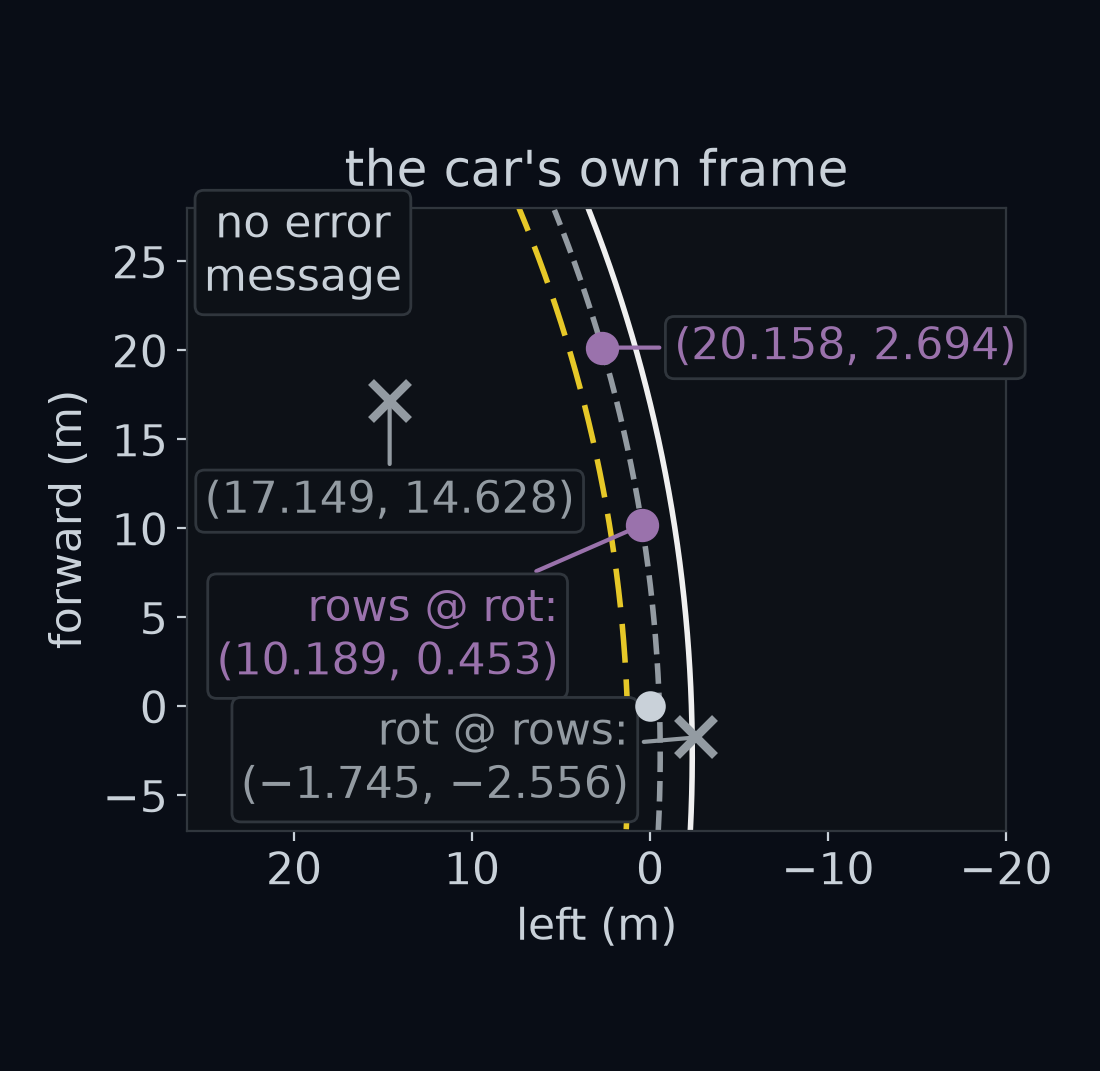
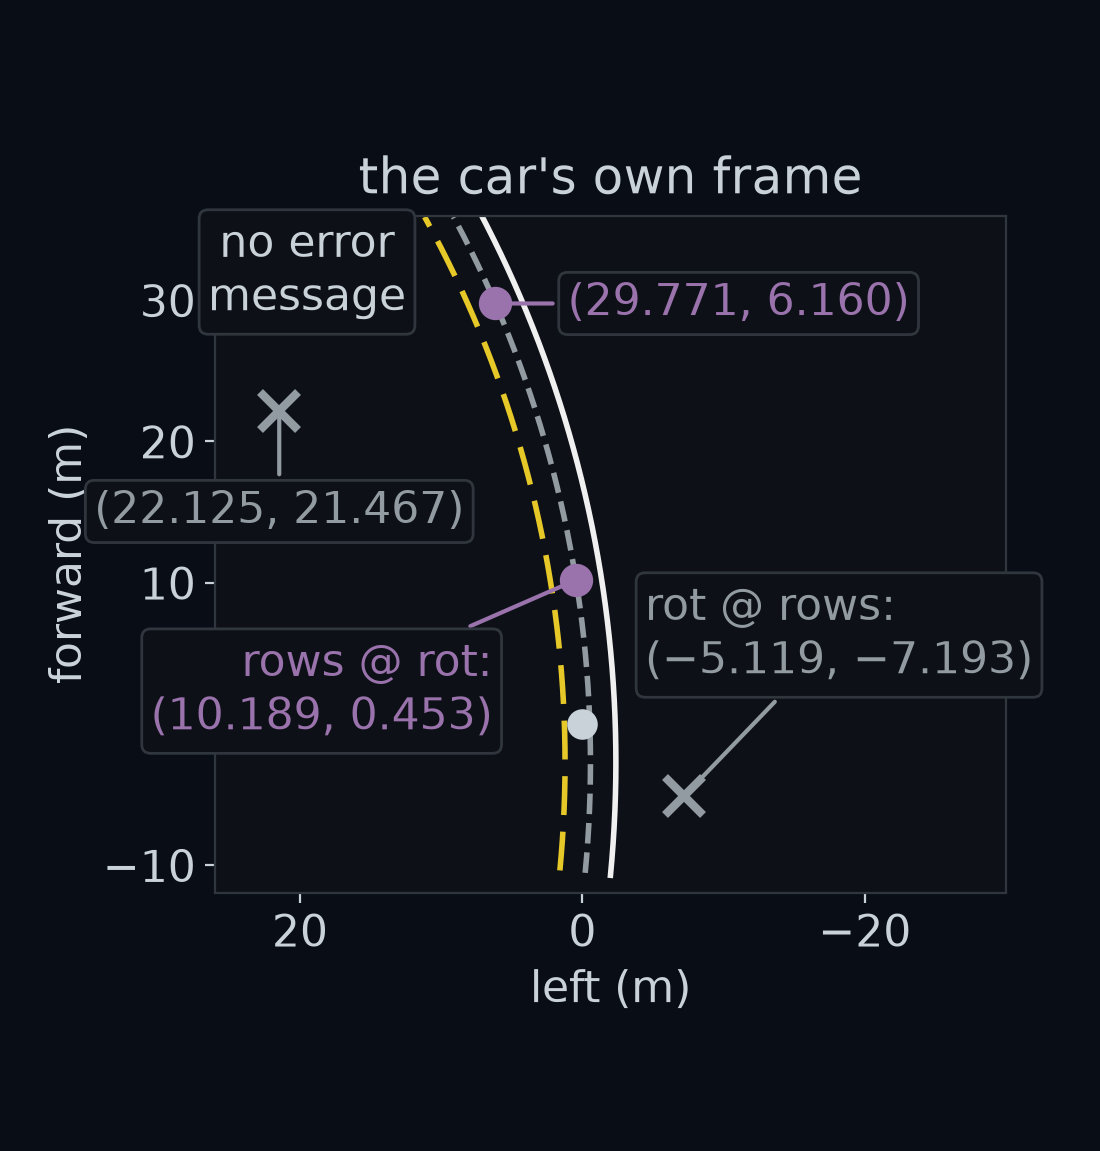
1.1.2: explicit tolerances, a fallback message that states only what it saw, shape_trap off the road
- every allclose in the grader and lab.py takes rtol=0 and the stated atol
- name_the_mistake: forward flipped, swapped position and a constant offset get their own names; anything else says how far off it is, no cause
- shape_trap uses the 10 m and 30 m lane-centre points, so both crosses are off the road; measure.py, caption and figure agree

diff --git a/zero2fsd/grade/units/u1_1_2.py b/zero2fsd/grade/units/u1_1_2.py
@@ -22,9 +22,7 @@ NAMED_YAWS = {  # yaw label -> (yaw, what a pass at that yaw proves)
     "-3pi/4": (-3 * math.pi / 4, "tells R from its transpose, and from no rotation"),
 }
 NAME_TOL = 1e-6  # how close `got` must be to a known wrong answer for the message to name that mistake
-GENERAL = ("a rotation mistake: check R(θ)ᵀ, θ in radians, and that you subtract t before rotating", "The rotation matrix")
-YAW_0 = ("wrong even at yaw 0, where R(0) must be the identity [[1, 0], [0, 1]]: check that rotation_matrix(0) gives it, that you subtract the car's position, and that you return (forward, left)",
-         "Two dot products make a frame change")
+SECTION = "Two dot products make a frame change"  # where the general message points: it names no cause
 
 
 def known_mistakes(pose, point):
@@ -41,16 +39,24 @@ def known_mistakes(pose, point):
         (p @ rot.T + t, ("this is ego_to_world, which goes the other way: world_to_ego is R(θ)ᵀ(p − t)", "Undo is the transpose")),
         (right[::-1], ("forward and left are in the wrong order: return (forward, left)", "Two dot products make a frame change")),
         (right * (1, -1), ("left has the wrong sign: the car's y axis points to its left", "Two dot products make a frame change")),
+        (right * (-1, 1), ("forward has the wrong sign: the car's x axis points ahead", "Two dot products make a frame change")),
+        ((p - t[::-1]) @ rot, ("the car's position is swapped: t is (east, north), as in the pose", "Two dot products make a frame change")),
     ]
 
 
 def name_the_mistake(pose, point, got, label):
-    """The headline for a wrong answer `got`: the mistake it matches, else yaw 0's text (the answer matches no known mistake, so say what yaw 0 must give) or the general rotation hint."""
+    """The headline for a wrong answer `got`: the mistake it matches, else only what the grader saw (how far off, or a constant gap)."""
     for answer, (what, section) in known_mistakes(pose, point):
-        if got.shape == answer.shape and np.allclose(got, answer, atol=NAME_TOL):
+        if got.shape == answer.shape and np.allclose(got, answer, rtol=0, atol=NAME_TOL):
             return f'wrong at yaw {label}: {what}. See the section "{section}"'
-    what, section = YAW_0 if pose[2] == 0.0 else GENERAL
-    return f'wrong at yaw {label}: {what}. See the section "{section}"'
+    right = geom.world_to_ego(pose, point)
+    if got.shape != right.shape:
+        seen = f"returned shape {got.shape}, expected {right.shape}"
+    else:
+        gap = got - right
+        seen = (f"both entries are off by the same {gap[0]:.3g} m: look for a constant added or subtracted"
+                if np.allclose(gap, gap[0], rtol=0, atol=NAME_TOL) else f"off by up to {np.abs(gap).max():.3g} m from (forward, left) = {fmt(right)}")
+    return f'wrong at yaw {label}: {seen}. See the section "{SECTION}"'
 
 
 def renderer_gap(fn) -> float:
@@ -81,17 +87,17 @@ def _world_to_ego(fn, show, on_step):
         point = car + AHEAD * geom.heading_vector(yaw) + LEFT * np.array([-math.sin(yaw), math.cos(yaw)])
         given = f"pose {(*CAR_AT, round(yaw, 4))}, world point {fmt(point)} (yaw {label})"
         got = np.asarray(call(fn, (*CAR_AT, yaw), point.copy(), given=given), dtype=float)
-        if got.shape != (2,) or not np.allclose(got, (AHEAD, LEFT), atol=TOL):
+        if got.shape != (2,) or not np.allclose(got, (AHEAD, LEFT), rtol=0, atol=TOL):
             raise Failure(name_the_mistake((*CAR_AT, yaw), point, got, label), given=given, expected=(AHEAD, LEFT), got=got)
     pose = (31.0, -12.0, 2.2)
     rows = np.array([[40.0, 3.0], [12.0, -20.0]])  # 2 points: the one shape where matrix @ rows runs without an error
     given = f"pose {pose} and 2 points as rows {fmt(rows)}"
     want = geom.world_to_ego(pose, rows)
     got = np.asarray(call(fn, pose, rows.copy(), given=given), dtype=float)
-    if got.shape != want.shape or not np.allclose(got, want, atol=TOL):
+    if got.shape != want.shape or not np.allclose(got, want, rtol=0, atol=TOL):
         matrix_first = geom.rotation_matrix(pose[2]).T @ (rows - np.array(pose[:2]))
         what = ("this is matrix @ rows: with 2 points it runs and mixes the points' parts; points stored as rows go on the left, rows @ R"
-                if got.shape == want.shape and np.allclose(got, matrix_first, atol=NAME_TOL) else "wrong for 2 points stored as rows")
+                if got.shape == want.shape and np.allclose(got, matrix_first, rtol=0, atol=NAME_TOL) else "wrong for 2 points stored as rows")
         raise Failure(f'{what}. See the section "Every point at once"', given=given, expected=want, got=got)
     rng = np.random.default_rng(1103)
     cloud = rng.uniform(-200, 200, (146, 4, 2))

diff --git a/tests/zero2fsd/test_u1_1_2.py b/tests/zero2fsd/test_u1_1_2.py
@@ -89,6 +89,18 @@ def shrunk_yaw(pose, p):  # a mistake the grader does not know by name: the yaw 
     return geom.world_to_ego((*pose[:2], 0.9 * pose[2]), p)
 
 
+def forward_flipped(pose, p):
+    return geom.world_to_ego(pose, p) * (-1, 1)
+
+
+def t_swapped(pose, p):
+    return geom.world_to_ego((pose[1], pose[0], pose[2]), p)
+
+
+def constant_shift(pose, p):
+    return geom.world_to_ego(pose, p) + 0.05
+
+
 def from_north(pose, p):  # the yaw taken from north (the y axis) instead of east
     return geom.world_to_ego((*pose[:2], math.pi / 2 - pose[2]), p)
 
@@ -105,10 +117,13 @@ MISTAKES = {  # wrong answer -> the words its message must hold, and the section
     "inverse": (inverse, "this is ego_to_world", "Undo is the transpose"),
     "order": (left_first, "forward and left are in the wrong order", "Two dot products make a frame change"),
     "left flipped": (left_flipped, "left has the wrong sign", "Two dot products make a frame change"),
-    "sin and cos swapped": (sin_cos_swapped, "where R(0) must be the identity", "Two dot products make a frame change"),
-    "yaw measured from north": (from_north, "where R(0) must be the identity", "Two dot products make a frame change"),
-    "yaw offset by 0.3 rad": (offset_yaw, "where R(0) must be the identity", "Two dot products make a frame change"),  # in neither list
-    "yaw scaled by 0.9": (shrunk_yaw, "a rotation mistake: check R(θ)ᵀ, θ in radians", "The rotation matrix"),  # not in the grader's list
+    "forward flipped": (forward_flipped, "forward has the wrong sign", "Two dot products make a frame change"),
+    "position swapped": (t_swapped, "the car's position is swapped", "Two dot products make a frame change"),
+    "constant offset": (constant_shift, "both entries are off by the same 0.05 m", "Two dot products make a frame change"),
+    "sin and cos swapped": (sin_cos_swapped, "off by up to", "Two dot products make a frame change"),  # not in the grader's list: it says only what it saw
+    "yaw measured from north": (from_north, "off by up to", "Two dot products make a frame change"),
+    "yaw offset by 0.3 rad": (offset_yaw, "off by up to", "Two dot products make a frame change"),
+    "yaw scaled by 0.9": (shrunk_yaw, "off by up to", "Two dot products make a frame change"),
 }
 
 
@@ -130,6 +145,22 @@ def test_each_wrong_transform_is_named_for_the_mistake_it_makes_and_points_to_it
 def test_a_failure_at_yaw_zero_never_says_what_a_pass_there_means():
     headline = run_check("1.1.2.a", left_first).details[0]
     assert "yaw 0" in headline and "cannot tell" not in headline and "identity" not in headline
+
+
+@pytest.mark.parametrize("mistake", ["sin and cos swapped", "yaw measured from north", "yaw scaled by 0.9"])
+def test_an_unlisted_wrong_answer_gets_only_what_the_grader_saw(mistake):
+    headline = run_check("1.1.2.a", MISTAKES[mistake][0]).details[0]
+    assert "R(0)" not in headline and "identity" not in headline and "rotation" not in headline
+    assert headline.count("wrong") == 1  # no stutter: "wrong at yaw 0: wrong even at yaw 0"
+
+
+def rounded_yaw(pose, p):  # the yaw typed with 4 decimals: a relative error of 2e-6 at 3.1416 vs pi
+    return geom.world_to_ego((*pose[:2], round(pose[2], 4)), p)
+
+
+def test_a_relative_error_of_a_few_millionths_fails_the_named_poses():
+    result = run_check("1.1.2.a", rounded_yaw)
+    assert not result.passed and "wrong at yaw" in result.details[0], result.details[0]
 
 
 def test_a_pass_says_what_each_named_yaw_proved():

diff --git a/course/1.1.2-the-view-from-the-drivers-seat/figures.py b/course/1.1.2-the-view-from-the-drivers-seat/figures.py
@@ -450,10 +450,10 @@ def _quads(d, path):
 
 # ---- 9. shape_trap ----
 def _shape_trap(d, path):
-    rows = np.stack([d.centre(10.0), d.centre(20.0)]) - np.array(d.pose[:2])
+    rows = np.stack([d.centre(10.0), d.centre(30.0)]) - np.array(d.pose[:2])
     rot = rotation_matrix(d.pose[2])
     right, wrong = rows @ rot, rot @ rows
-    xlim, ylim = (26, -20), (-7, 28)
+    xlim, ylim = (26, -30), (-12, 36)
     fig, ax = _fig(_panel(xlim, ylim) + 2.2)
     draw_lines(ax, lane_lines(d.gentle, 140, 200, d.pose, n=500), ego=True, box=(xlim, ylim))
     car_dot(ax, (0, 0))
@@ -462,9 +462,9 @@ def _shape_trap(d, path):
         ax.plot(wl, wf, "x", color=GREY, markersize=14, markeredgewidth=3, zorder=5)
     say(ax, (right[0, 1], right[0, 0]), f"rows @ rot:\n({num(right[0, 0])}, {num(right[0, 1])})", dx=-30, dy=-40, ha="right", colour=EGO, badge=True, arrow=True)
     say(ax, (right[1, 1], right[1, 0]), f"({num(right[1, 0])}, {num(right[1, 1])})", dx=26, dy=0, ha="left", colour=EGO, badge=True, arrow=True)
-    say(ax, (wrong[0, 1], wrong[0, 0]), f"rot @ rows:\n({num(wrong[0, 0])}, {num(wrong[0, 1])})", dx=-24, dy=-8, ha="right", colour=GREY, badge=True, arrow=True)
+    say(ax, (wrong[0, 1], wrong[0, 0]), f"rot @ rows:\n({num(wrong[0, 0])}, {num(wrong[0, 1])})", dx=-14, dy=58, ha="left", colour=GREY, badge=True, arrow=True)
     say(ax, (wrong[1, 1], wrong[1, 0]), f"({num(wrong[1, 0])}, {num(wrong[1, 1])})", dy=-36, colour=GREY, badge=True, arrow=True)
-    say(ax, (19.5, 25.5), "no error\nmessage", colour=TEXT, badge=True)
+    say(ax, (19.5, 32), "no error\nmessage", colour=TEXT, badge=True)
     ego_axes(ax, xlim, ylim)
     ax.set_title("the car's own frame")
     _save(fig, path)

diff --git a/course/1.1.2-the-view-from-the-drivers-seat/measure.py b/course/1.1.2-the-view-from-the-drivers-seat/measure.py
@@ -177,11 +177,11 @@ try:
 except ValueError as exc:
     trap5 = f"ValueError: {exc}"
 s_scene = road.project(*scene_pose[:2])[0]
-pts2 = np.array([road.offset(s_scene + ahead, world.EGO_LANE_CENTER) for ahead in (10.0, 20.0)]) - np.array(scene_pose[:2])
+pts2 = np.array([road.offset(s_scene + ahead, world.EGO_LANE_CENTER) for ahead in (10.0, 30.0)]) - np.array(scene_pose[:2])
 right2 = pts2 @ Rm
 wrong2 = Rm @ pts2
 say("M08.trap", f"R @ points for 5 points stored as rows: {trap5}")
-say("M08.trap2", f"2 points as rows (the lane-centre points 10 and 20 m further along the lane): rows @ R -> [[{right2[0,0]:+.3f}, {right2[0,1]:+.3f}], [{right2[1,0]:+.3f}, {right2[1,1]:+.3f}]]; "
+say("M08.trap2", f"2 points as rows (the lane-centre points 10 and 30 m further along the lane): rows @ R -> [[{right2[0,0]:+.3f}, {right2[0,1]:+.3f}], [{right2[1,0]:+.3f}, {right2[1,1]:+.3f}]]; "
     f"R @ rows -> [[{wrong2[0,0]:+.3f}, {wrong2[0,1]:+.3f}], [{wrong2[1,0]:+.3f}, {wrong2[1,1]:+.3f}]] with no error")
 
 # ---- M09 40 seeded poses against the renderer's own to_vehicle (lab 1.1.2.a, tolerance 1e-9) ----

diff --git a/course/1.1.2-the-view-from-the-drivers-seat/lab.py b/course/1.1.2-the-view-from-the-drivers-seat/lab.py
@@ -216,7 +216,7 @@ for k in (2, 3, 146):
     except ValueError:
         print(f"{k} points: ValueError, the shapes do not line up")
     else:
-        print(f"{k} points: no error, and the answer is {'right' if np.allclose(wrong_way, rows @ rot) else 'wrong'}")
+        print(f"{k} points: no error, and the answer is {'right' if np.allclose(wrong_way, rows @ rot, rtol=0, atol=1e-9) else 'wrong'}")
 print("rows @ rot, for the first two points:", (lane_points[:2] - t) @ rot)
 
 # %% [markdown]

diff --git a/course/1.1.2-the-view-from-the-drivers-seat/lecture.md b/course/1.1.2-the-view-from-the-drivers-seat/lecture.md
@@ -201,7 +201,7 @@ Written the maths way round in code, `rot @ rows` multiplies a (2, 2) by an (N, 
 
 **Guess first:** with exactly 2 points, the shapes are (2, 2) and (2, 2). Does `rot @ rows` raise an error?
 
-![The first two lane-centre points of the opening, 10 and 20 m further along the lane, in the ego frame of the car at the scene, with forward up the page. Purple dots: the rows times R(θ), the right product, at (10.189, 0.453) and (20.158, 2.694), on the lane centre ahead of the car. Grey crosses: R(θ) times the rows, the same two arrays the other way round, read as two points: (−1.745, −2.556) and (17.149, 14.628), off the road, with no error message.](figures/shape_trap.png)
+![Two of the lane-centre points of the opening, 10 and 30 m further along the lane, in the ego frame of the car at the scene, with forward up the page. Purple dots: the rows times R(θ), the right product, at (10.189, 0.453) and (29.771, 6.160), on the lane centre ahead of the car. Grey crosses: R(θ) times the rows, the same two arrays the other way round, read as two points: (−5.119, −7.193) and (22.125, 21.467), off the road, with no error message.](figures/shape_trap.png)
 
 **Answer:** no. Both arrays are 2 by 2, so the product is allowed, and it mixes up the two points' east and north parts without a word. The lab tests `world_to_ego` on many points at once, and on the (K, 4, 2) shape the camera uses, so this mistake cannot hide behind a lucky count.
 
